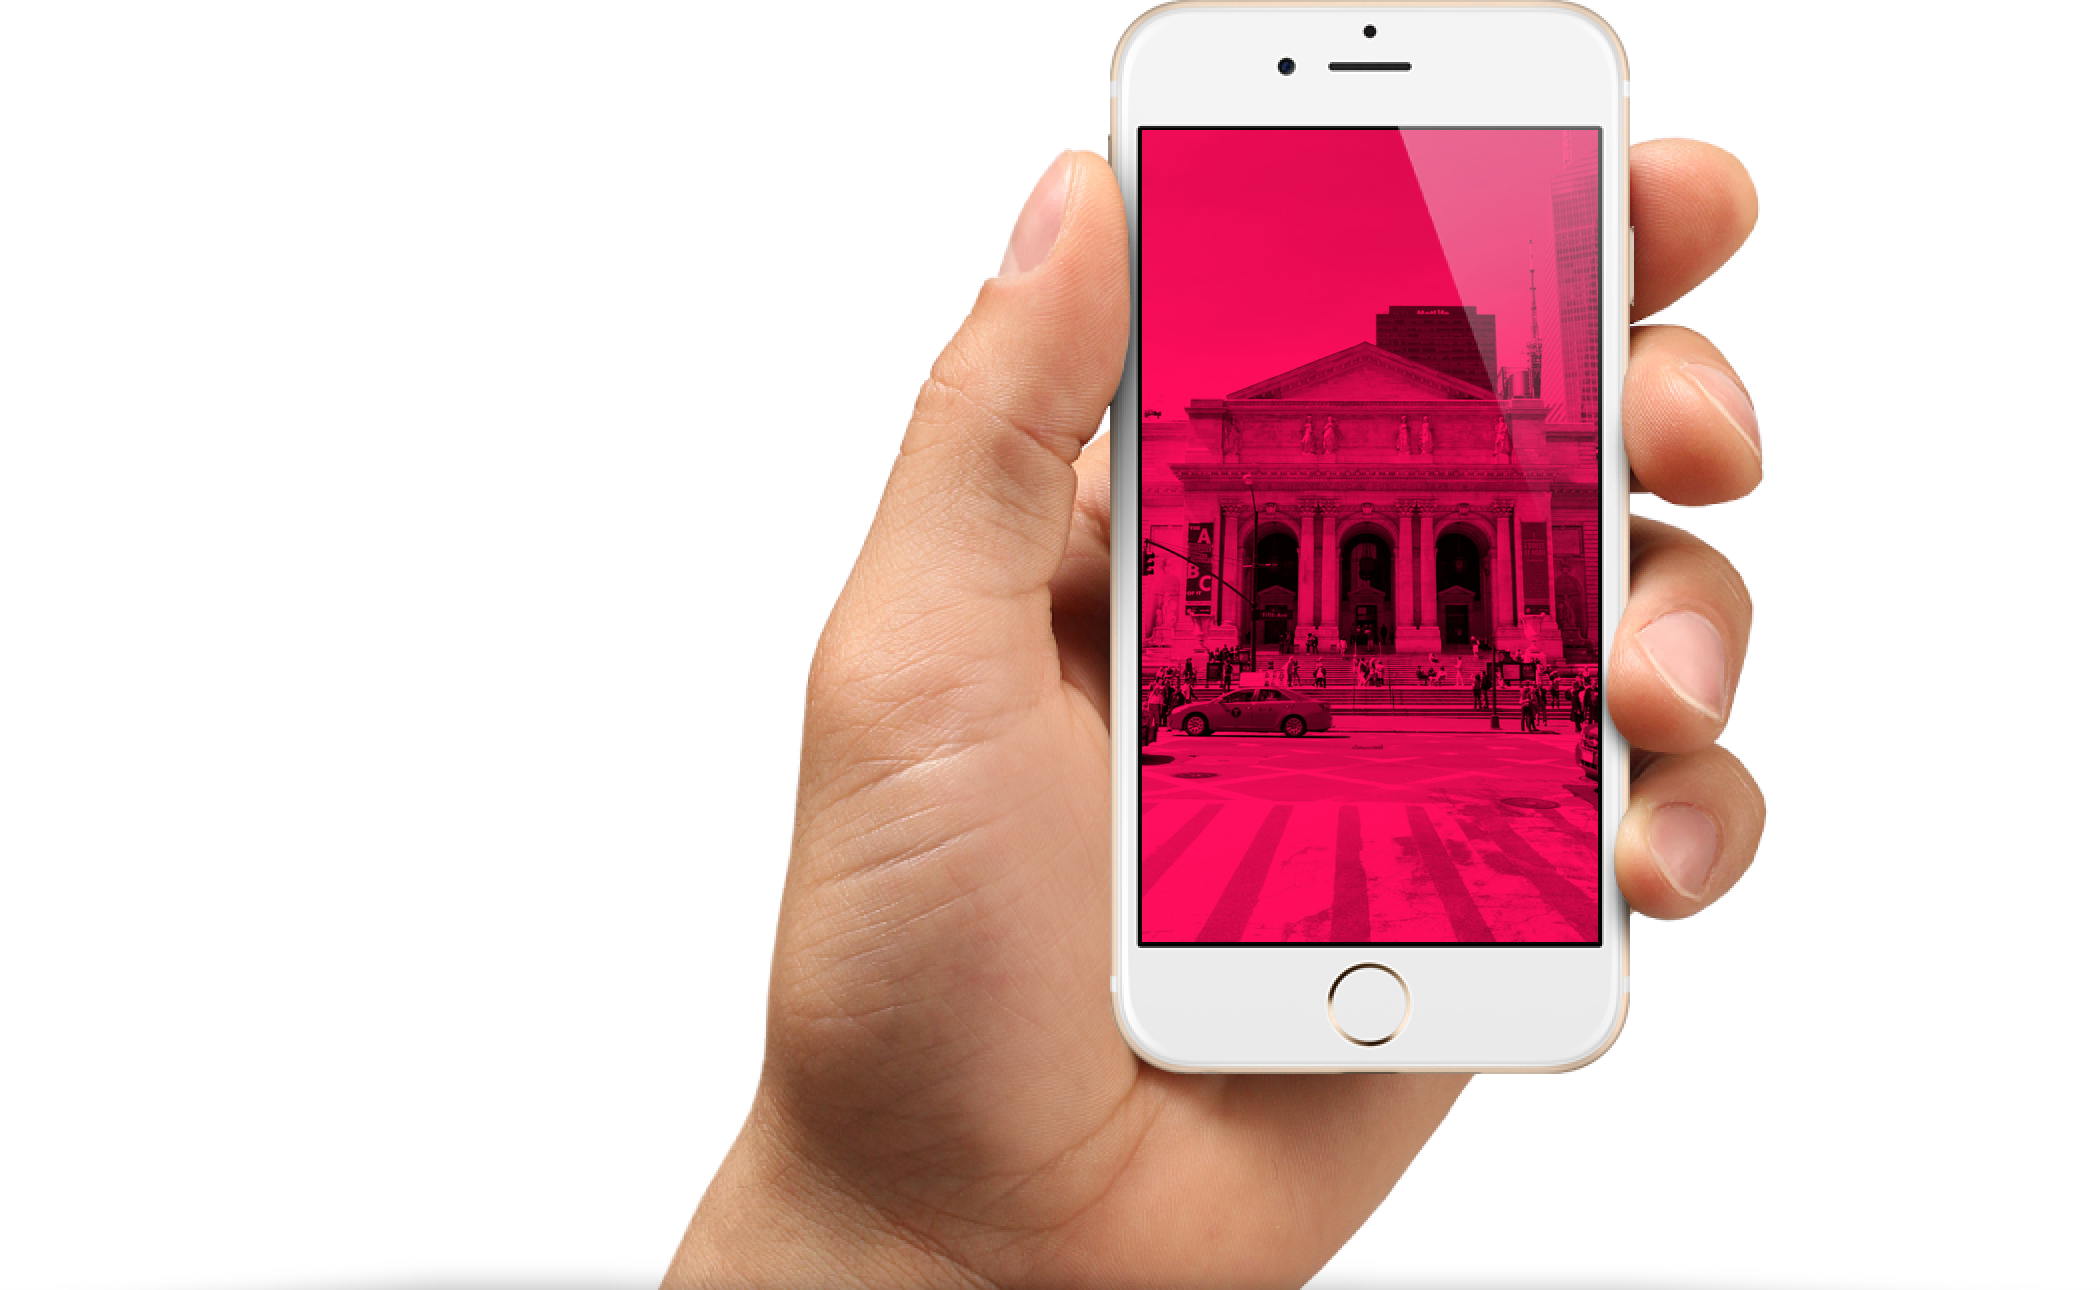
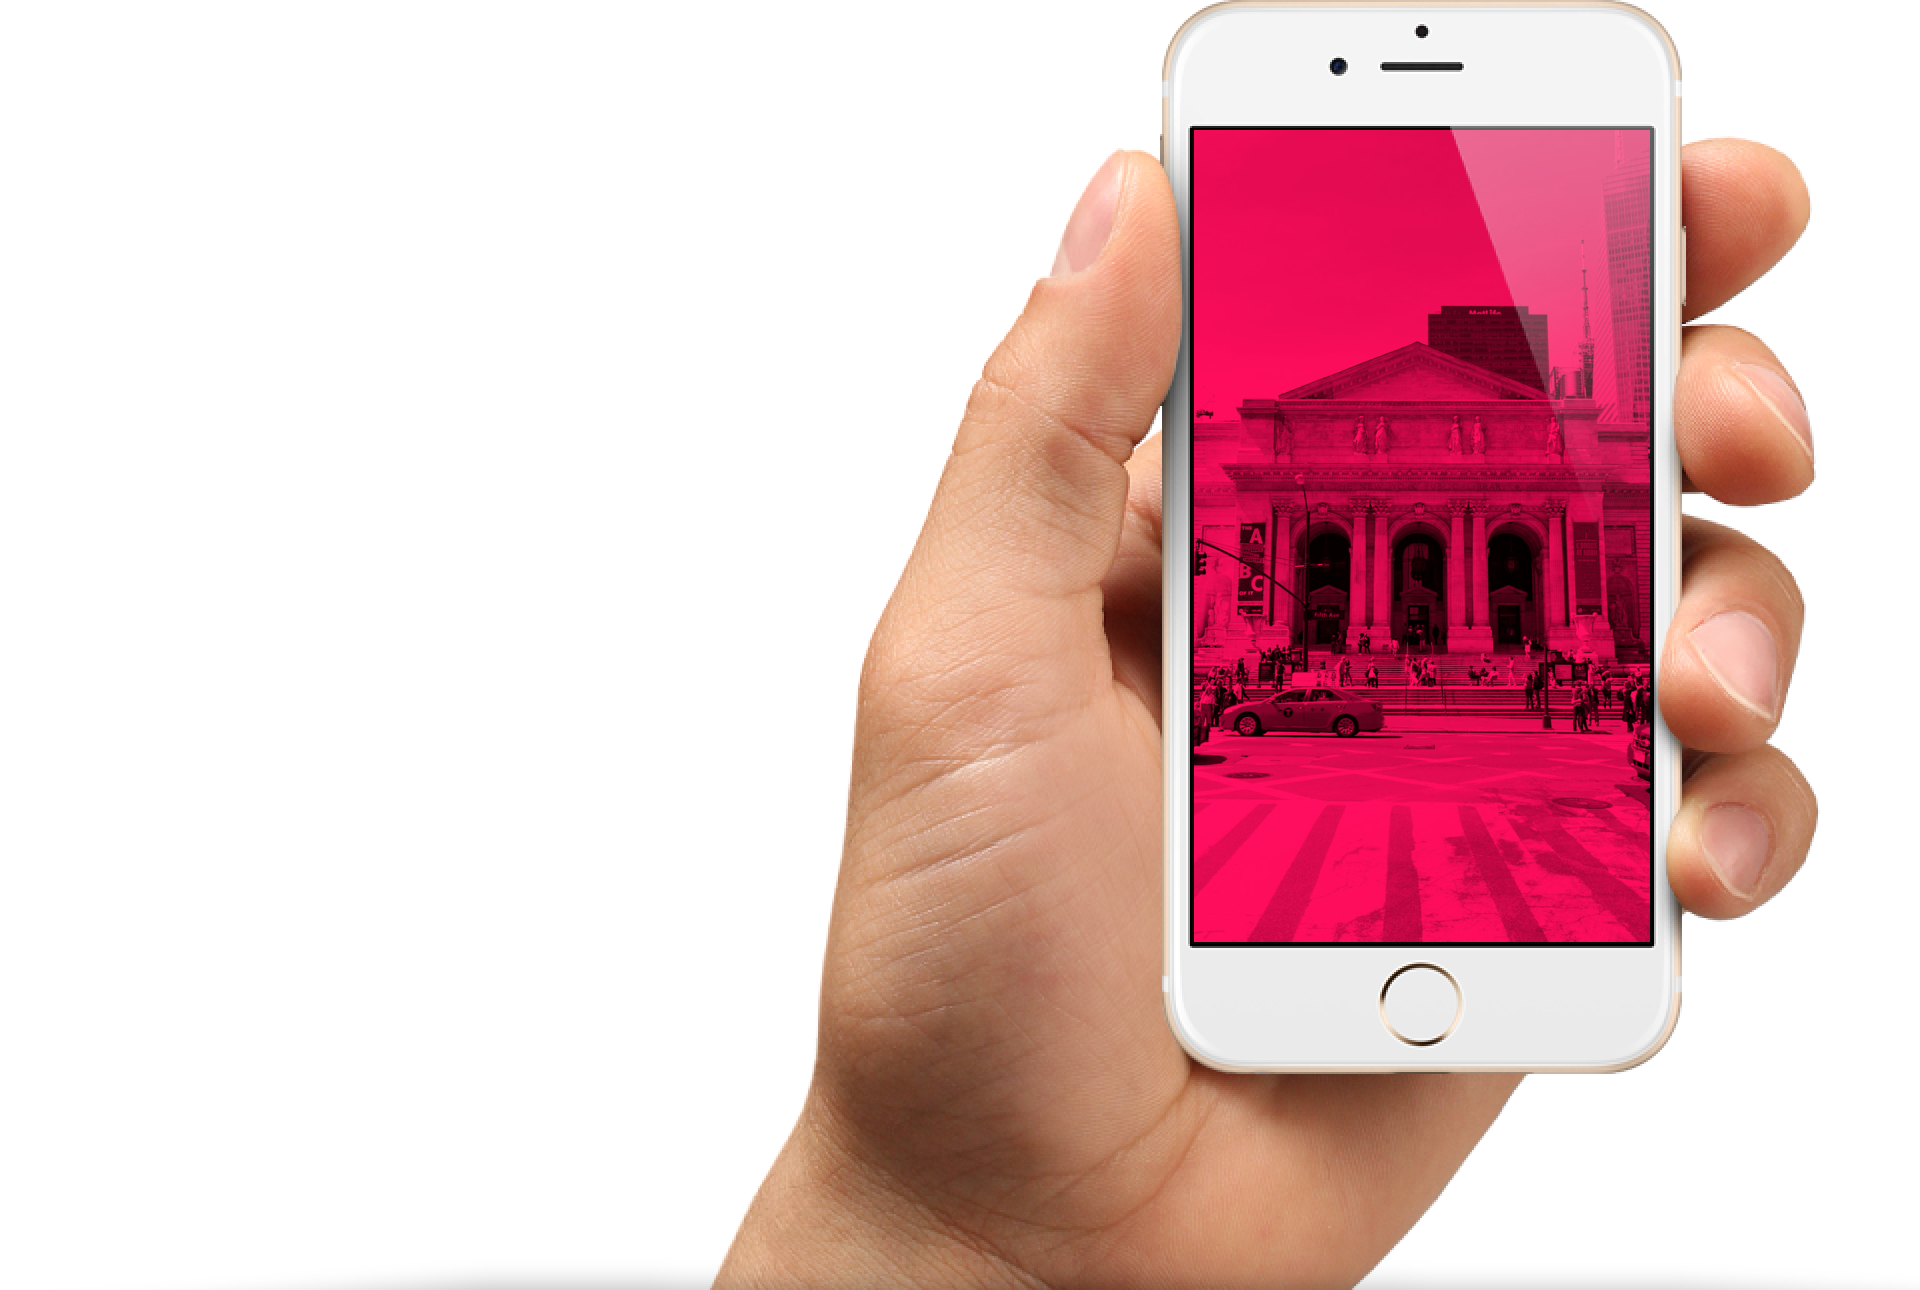
pixel perfect

diff --git a/source/sass/blocks/post.scss b/source/sass/blocks/post.scss
@@ -78,12 +78,12 @@
     flex-direction: column;
     justify-content: space-between;
     width: 48%;
-    min-height: 460px;
-    margin-bottom: 16px;
+    min-height: 455px;
+    margin-bottom: 20px;
 
     &--panorama-of-day {
       width: 100vw;
-      margin-bottom: 44px;
+      margin-bottom: 50px;
 
       &::before {
         top: 57px;
@@ -91,6 +91,7 @@
 
       .post__data {
         position: relative;
+        padding-bottom: 25px;
       }
 
       .post__liking {
@@ -104,7 +105,7 @@
   }
 
   .post__data {
-    padding: 24px 30px 30px 26px;
+    padding: 24px 30px 26px 26px;
     flex-grow: 1;
   }
 
@@ -113,29 +114,40 @@
     padding-left: 0;
     background-position-x: right;
   }
+
+  .post__text {
+    min-height: 48px;
+  }
 }
 
 @media (min-width: $desktop-width) {
   .post {
     width: 32%;
-    margin-bottom: 46px;
-    min-height: 560px;
+    margin-bottom: 54px;
+    min-height: 550px;
 
     &--panorama-of-day {
       width: 100vw;
-      margin-bottom: 44px;
-      margin-left: -$desktop-padding-horizontally;
-      margin-right: -$desktop-padding-horizontally;
+      margin-left: -130px;
+      margin-right: -130px;
+      margin-bottom: 51px;
+      overflow: hidden;
 
       &::before {
         top: 55px;
         right: 129px;
       }
 
+      .post__foto-link {
+        width: 1200px;
+      }
+
       .post__data {
         position: relative;
-        margin-left: $desktop-padding-horizontally;
-        margin-right: $desktop-padding-horizontally;
+        width: 884px;
+        margin-left: auto;
+        margin-right: auto;
+        padding-bottom: 0;
       }
 
       .post__liking {
@@ -146,5 +158,9 @@
         background-position-x: right;
       }
     }
+  }
+
+  .post__data {
+    padding-bottom: 22px;
   }
 }

diff --git a/source/catalog.html b/source/catalog.html
@@ -189,7 +189,7 @@
         <p class="aggitation__text">Затмите их всех!<br>Выкладывайте все, что накопилось в телефоне!</p>
       </div>
       <div class="create-post">
-        <div class="wrapper wrapper--second-type">
+        <div class="wrapper wrapper--another-color">
           <form class="post-form" id="post-form"  action="https://echo.htmlacademy.ru/" method="get">
             <div class="post-form__image-block">
               <label class="post-form__file-label" for="foto">
@@ -233,7 +233,7 @@
         </div>
       </div>
     </main>
-    <footer class="footer">
+    <footer class="footer footer--second-type">
       <a class="logo footer__logo" href="index.html" aria-label="Pink">
         <svg class="logo__images footer__logo-images" width="147" height="40">
           <use class="logo__image logo__image--mobile-and-tablet" xlink:href="img/logo/sprite.svg#logo"></use>

diff --git a/source/sass/blocks/form.scss b/source/sass/blocks/form.scss
@@ -165,6 +165,7 @@
   margin-top: 18px;
   margin-bottom: 12px;
   padding-top: 14px;
+  resize: none;
   border: 2px solid $color-gray-2;
   border-radius: 1px;
   color: $color-blue-1;
@@ -270,6 +271,7 @@
         margin-left: 50px;
       }
     }
+
     &:nth-child(2n) {
       background-color: $color-white-1;
     }
@@ -382,10 +384,8 @@
     flex-direction: row;
     flex-wrap: wrap;
     justify-content: space-between;
-    max-width: 960px;
+    max-width: $desktop-width-only;
     margin: 0 auto;
-    padding-left: 10px;
-    padding-right: 10px;
     padding-top: 56px;
 
     >:nth-child(1),
@@ -492,7 +492,7 @@
 
     &:nth-child(4) {
       .form__section {
-        padding-left: 0px;
+        padding-left: 0;
         padding-right: 5px;
         margin-top: 16px;
       }

diff --git a/source/sass/blocks/intro.scss b/source/sass/blocks/intro.scss
@@ -148,13 +148,17 @@
     min-height: 235px;
     background-image: url("../img/intro-back-desktop.jpg");
     background-size: cover;
+    overflow: hidden;
 
     &--phone {
       &::before {
         background-image: url("../img/phone-hand-desktop.png");
+        background-position: center top;
         max-width: 960px;
         height: 100%;
         bottom: auto;
+        background-size: auto;
+        left: 56%;
       }
     }
 
@@ -199,6 +203,8 @@
     &--phone {
       &::before {
         background-image: url("../img/phone-hand-desktop-x2.png");
+        background-size: 100%;
+        left: 50%;
       }
     }
   }

diff --git a/source/sass/blocks/pop-up.scss b/source/sass/blocks/pop-up.scss
@@ -52,6 +52,36 @@
 @media (min-width: $tablet-width) {
   .pop-up {
     width: 460px;
+
+    &--success {
+      .pop-up__send {
+        padding-top: 38px;
+      }
+
+      .pop-up__header {
+        padding-top: 32px;
+      }
+
+      .pop-up__text {
+        margin-bottom: 29px;
+      }
+    }
+
+    &--error {
+      .pop-up__send {
+        padding-top: 24px;
+      }
+
+      .pop-up__header {
+        width: 70%;
+        margin: 0 auto 24px auto;
+      }
+
+      .pop-up__text {
+        width: 85%;
+        margin: 0 auto;
+      }
+    }
   }
 
   .pop-up__header {

diff --git a/source/index.html b/source/index.html
@@ -38,7 +38,7 @@
         </button>
         <ul class="main-nav__list">
           <li class="main-nav__item">
-            <a class="main-nav__link main-nav__link--current" href="#">Главная</a>
+            <a class="main-nav__link" href="#">Главная</a>
           </li>
           <li class="main-nav__item">
             <a class="main-nav__link" href="catalog.html">Фотографии</a>

diff --git a/source/sass/blocks/wrapper.scss b/source/sass/blocks/wrapper.scss
@@ -30,13 +30,17 @@
 
 @media (min-width: $desktop-width) {
   .wrapper {
-    max-width: $desktop-width;
+    max-width: $desktop-width-only;
     display: flex;
     justify-content: space-between;
     min-height: auto;
 
     &--third-type {
       display: block;
+    }
+
+    &--another-color {
+      background-color: $color-gray-1;
     }
   }
 }

diff --git a/source/sass/blocks/footer.scss b/source/sass/blocks/footer.scss
@@ -46,8 +46,12 @@
   .footer {
     padding-top: 58px;
     padding-bottom: 40px;
-    padding-left: 10px;
-    padding-right: 10px;
-    min-width: 960px;
+    padding-left: 0;
+    padding-right: 0;
+    min-width: $desktop-width-only;
+
+    &--second-type {
+      padding-top: 88px;
+    }
   }
 }

diff --git a/source/sass/blocks/button.scss b/source/sass/blocks/button.scss
@@ -131,12 +131,14 @@
       display: inline-block;
       margin-top: 142px;
       margin-bottom: 0;
+      font-size: 18px;
     }
 
     &--form-cancel {
       width: 44%;
       display: inline-block;
       margin-left: 38px;
+      font-size: 18px;
     }
 
     &--second-type {

diff --git a/source/sass/blocks/catalog.scss b/source/sass/blocks/catalog.scss
@@ -15,6 +15,8 @@
 @media (min-width: $desktop-width) {
   .catalog {
     margin: 0 auto;
-    max-width: $desktop-width;
+    max-width: $desktop-width-only;
+    padding-left: 10px;
+    padding-right: 10px;
   }
 }

diff --git a/source/sass/blocks/post-form.scss b/source/sass/blocks/post-form.scss
@@ -202,6 +202,9 @@
 @media (min-width: $desktop-width) {
   .post-form {
     justify-content: space-between;
+    width: 100%;
+    padding-left: 80px;
+    padding-right: 60px;
   }
 
   .post-form__filter-block {

diff --git a/source/sass/blocks/create-post.scss b/source/sass/blocks/create-post.scss
@@ -3,3 +3,9 @@
   padding-right: $mobile-padding-horizontally;
   padding-left: $mobile-padding-horizontally;
 }
+
+@media (min-width: $desktop-width) {
+  .create-post {
+    background-color: inherit;
+  }
+}
